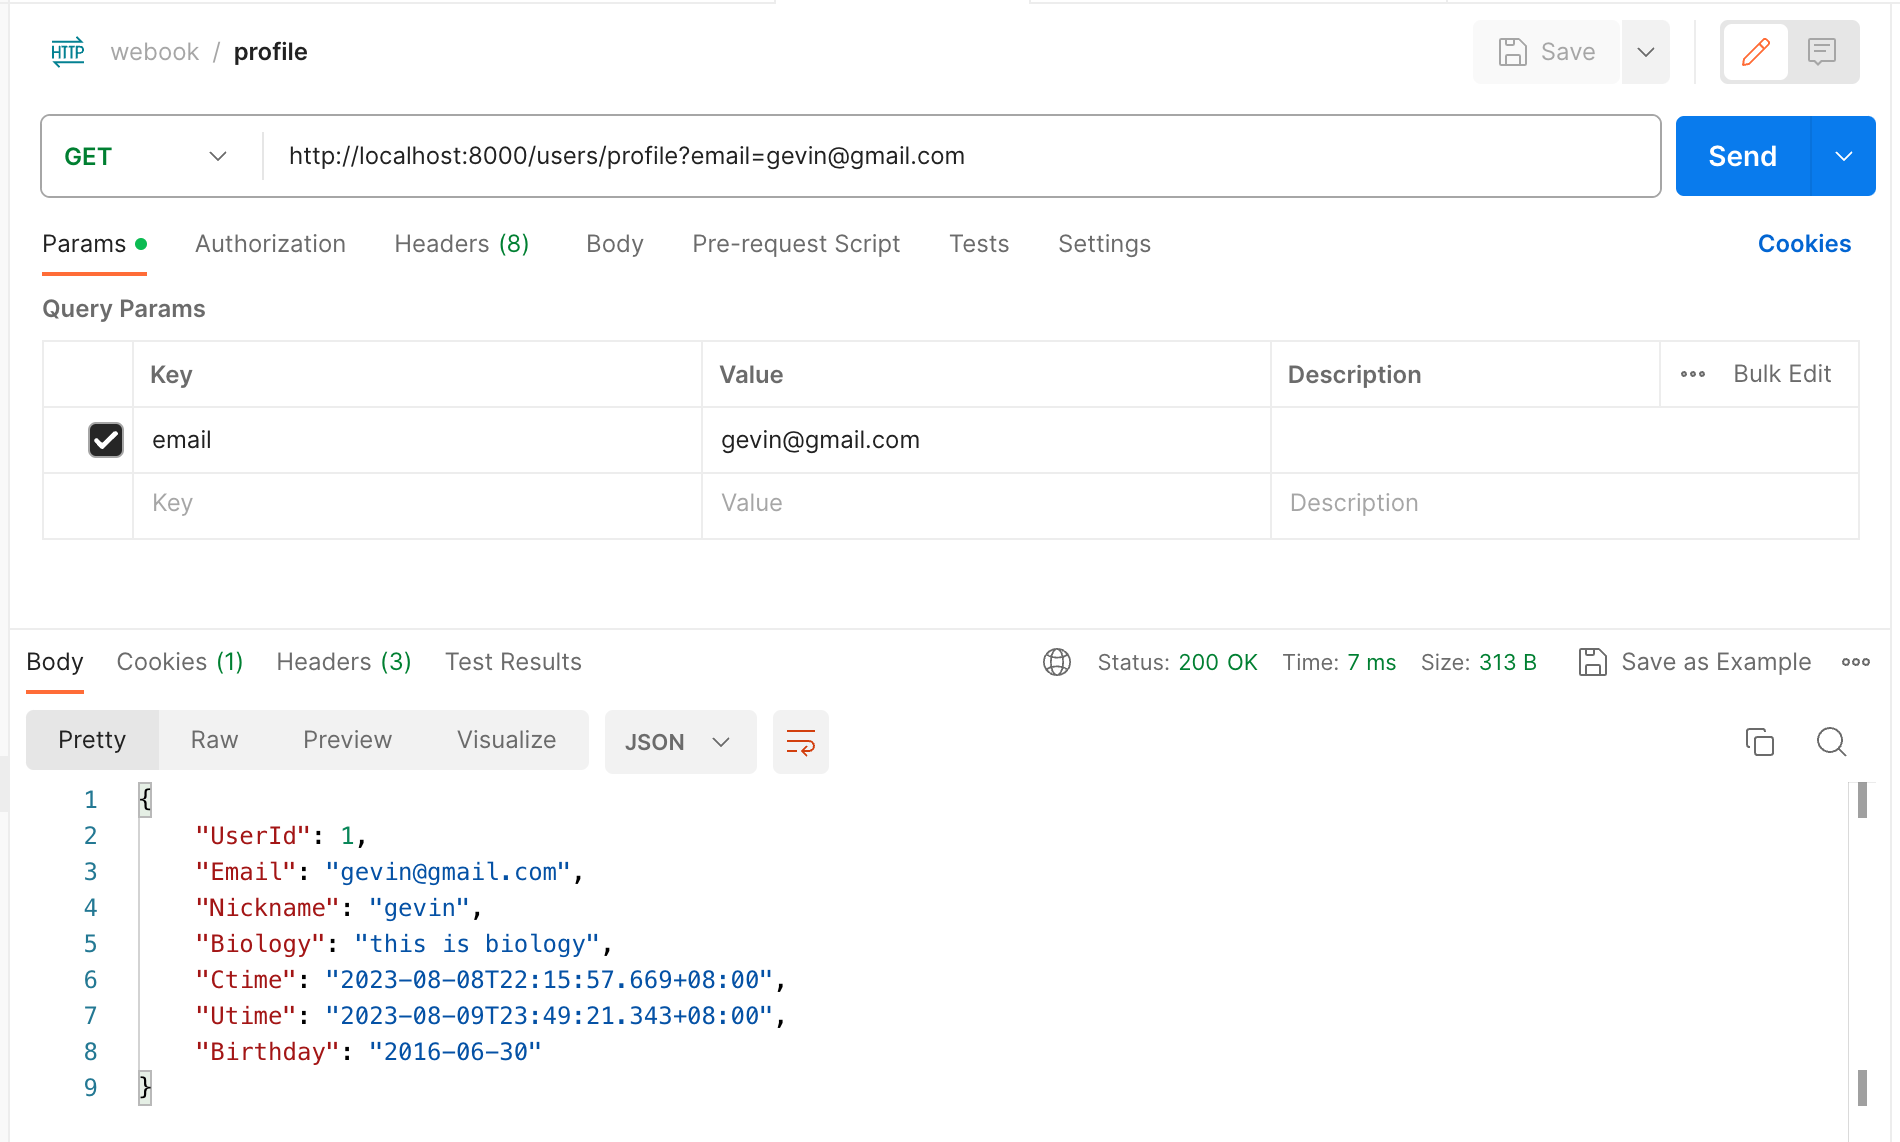
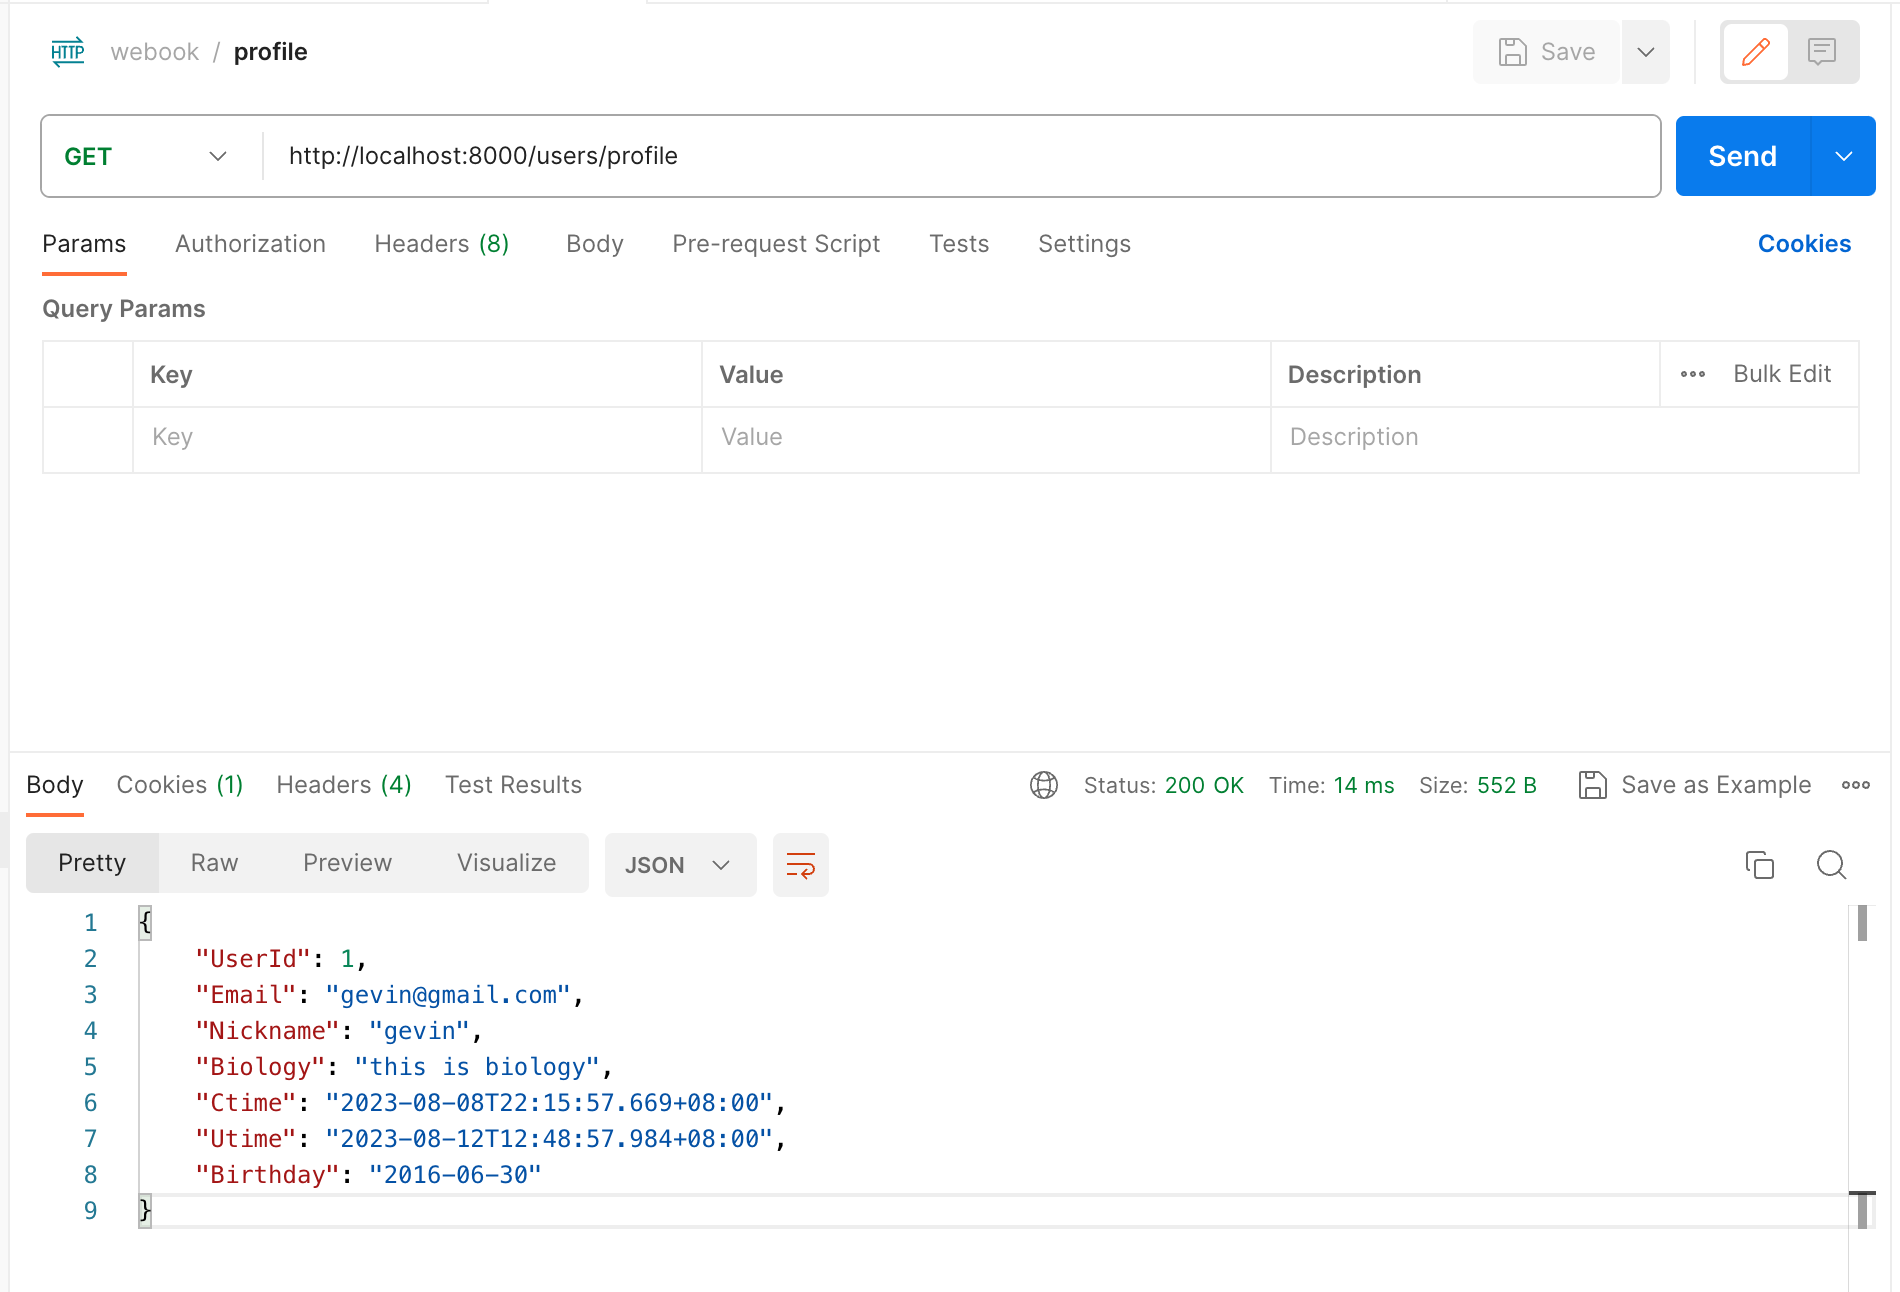
update

diff --git a/week2/webook/internal/web/user.go b/week2/webook/internal/web/user.go
@@ -51,8 +51,8 @@ func (u *UserHandler) RegisterRoutes(server *gin.Engine) {
 	ug := server.Group("/users")
 	ug.GET("/profile", u.Profile)
 	ug.POST("/signup", u.SignUp)
-	//ug.POST("/login", u.Login)
-	ug.POST("/login", u.LoginJwt)
+	ug.POST("/login", u.Login)
+	//ug.POST("/login", u.LoginJwt)
 	ug.POST("/logout", u.Logout)
 	ug.POST("/edit", u.Edit)
 }
@@ -132,6 +132,7 @@ func (u *UserHandler) Login(ctx *gin.Context) {
 		MaxAge: 15,
 	})
 	sess.Set("userId", user.Id)
+	sess.Set("email", user.Email)
 	_ = sess.Save()
 	ctx.String(http.StatusOK, "登录成功")
 }
@@ -236,11 +237,19 @@ func (u *UserHandler) Edit(ctx *gin.Context) {
 }
 
 func (u *UserHandler) Profile(ctx *gin.Context) {
-	email := ctx.Query("email")
-	if email == "" {
-		ctx.JSON(http.StatusBadRequest, map[string]string{"error": "url 缺少email 参数"})
+	//email := ctx.Query("email")
+	//if email == "" {
+	//	ctx.JSON(http.StatusBadRequest, map[string]string{"error": "url 缺少email 参数"})
+	//	return
+	//}
+	sess := sessions.Default(ctx)
+	emailSess := sess.Get("email")
+	email, ok := emailSess.(string)
+	if !ok {
+		ctx.JSON(http.StatusBadRequest, map[string]string{"error": "系统错误"})
 		return
 	}
+
 	profile, err := u.svc.GetProfileByEmail(ctx, email)
 	if err != nil {
 		ctx.JSON(http.StatusInternalServerError, "系统错误")

diff --git a/week2/webook/main.go b/week2/webook/main.go
@@ -66,12 +66,12 @@ func initWebServer() *gin.Engine {
 	}))
 
 	server.Use(sessions.Sessions("gevin_session", memstore.NewStore([]byte("this is secret"))))
-	//server.Use(middleware.NewLoginMiddlewareBuilder().
-	//	IgnorePaths("/users/signup", "/users/login").
-	//	Build())
-	server.Use(middleware.NewLoginJwtMiddlewareBuilder().
+	server.Use(middleware.NewLoginMiddlewareBuilder().
 		IgnorePaths("/users/signup", "/users/login").
 		Build())
+	//server.Use(middleware.NewLoginJwtMiddlewareBuilder().
+	//	IgnorePaths("/users/signup", "/users/login").
+	//	Build())
 	return server
 }
 
